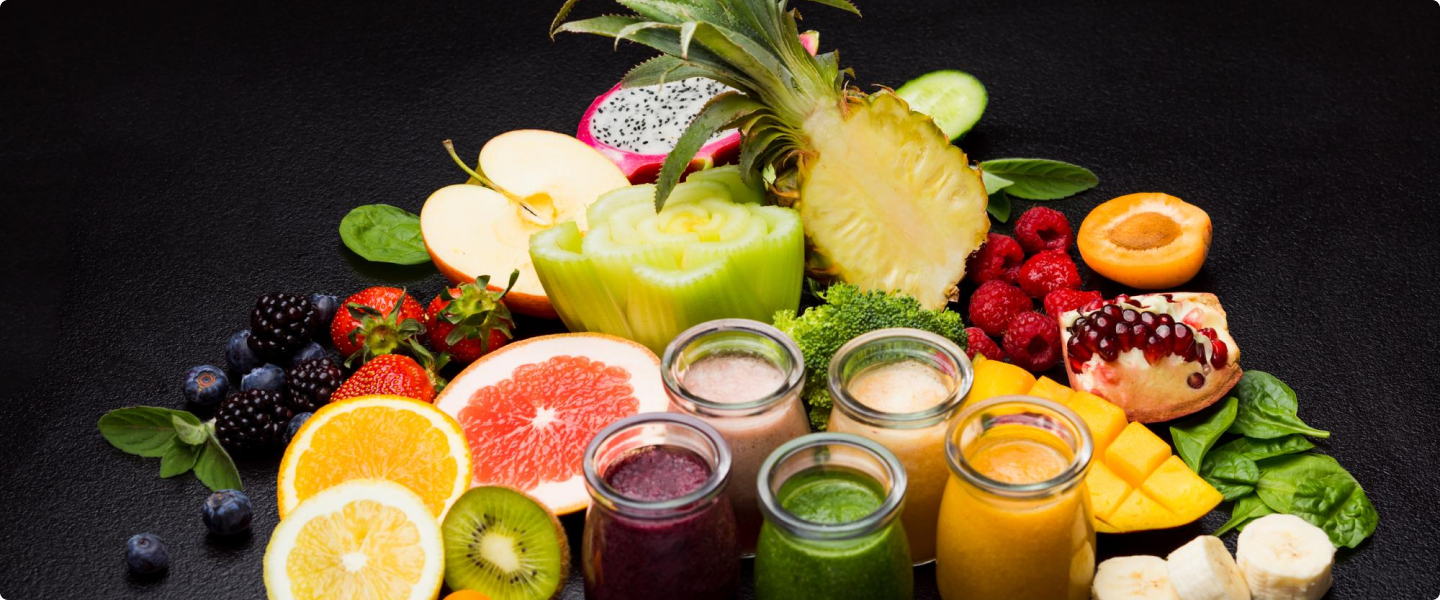
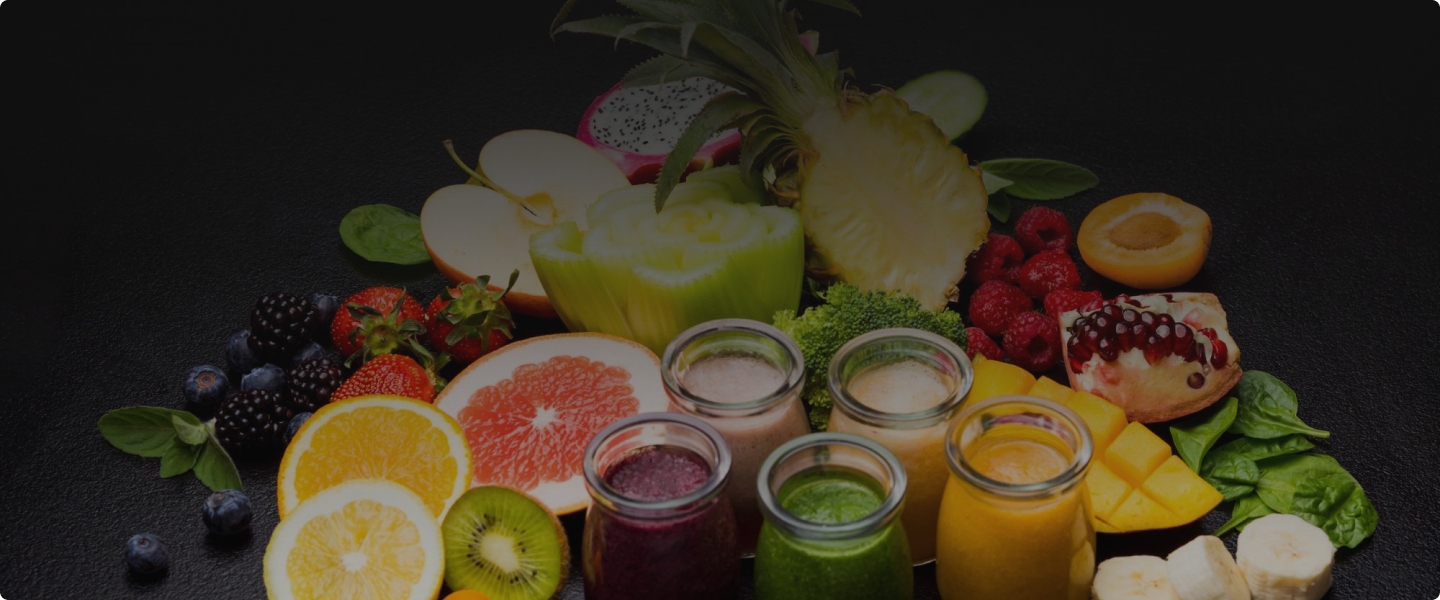
carousel fix

diff --git a/index.html b/index.html
@@ -59,8 +59,8 @@
                 
                 <nav class="bg-white border-gray-200 lg:hidden md:mt-12">
                     <div class="md:max-w-[760px] flex flex-wrap items-center justify-between mx-auto p-4">
-                    <a href="#" class="flex items-center">
-                        <img src="./images/logo.png" class="h-8 mr-3" alt="Flowbite Logo" />
+                    <a href="#" class="flex items-center gap-2">
+                        <img src="./images/logo.png" class="h-8" alt="Flowbite Logo" />
                         <span class="self-center text-2xl font-semibold whitespace-nowrap dark:text-black">Fruit Burst</span>
                     </a>
                     <button data-collapse-toggle="navbar-default" type="button" class="inline-flex items-center p-2 w-10 h-10 justify-center text-sm text-black rounded-lg lg:hidden hover:bg-gray-100 focus:outline-none focus:ring-2 focus:ring-gray-200 dark:text-black dark:hover:bg-gray-300 dark:focus:ring-gray-600" aria-controls="navbar-default" aria-expanded="false">
@@ -100,62 +100,58 @@
   
 
 
-                
-                <div class="carousel flex lg:max-w-[1440px] xl:max-w-[1280px] md:max-w-[760px] lg:mx-auto md:mx-auto mx-3 items-center relative md:mt-14 mt-7">
 
-                    <div id="slide1" class="carousel-item relative w-full bg-gradient-to-b from-[#121212b3] to-[#12121280] rounded-lg">
-                        <img src="./images/banner1.png" class="w-full mix-blend-overlay" />
-                        <div class="absolute flex justify-between transform -translate-y-1/2 left-5 right-5 top-1/2">
-                        <a href="#slide4" class="md:hidden w-6 h-6 rounded-full text-white bg-black border-none hover:bg-white/40 hover:text-black flex justify-center">❮</a> 
-                        <a href="#slide2" class="md:hidden w-6 h-6 rounded-full text-white bg-black border-none hover:bg-white/40 hover:text-black flex justify-center">❯</a>
+              <div id="controls-carousel" class="relative w-full lg:max-w-[1440px] md:max-w-[910px] max-w-[350px] mx-auto" data-carousel="static">
+                <!-- Carousel wrapper -->
+                <div class="relative h-56 overflow-hidden rounded-lg lg:h-screen md:h-[430px] lg:mt-0">
 
-                        <a href="#slide4" class="md:flex hidden btn btn-circle text-white bg-black border-none hover:bg-white/40 hover:text-black">❮</a> 
-                        <a href="#slide2" class="md:flex hidden btn btn-circle text-white bg-black border-none hover:bg-white/40 hover:text-black">❯</a>    
-                        </div>
-                    </div> 
-                    <div id="slide2" class="carousel-item relative w-full bg-gradient-to-b from-[#121212b3] to-[#12121280] rounded-lg">
-                        <img src="./images/banner2.png" class="w-full mix-blend-overlay" />
-                        <div class="absolute flex justify-between transform -translate-y-1/2 left-5 right-5 top-1/2">
-                        <a href="#slide1" class="md:hidden w-6 h-6 rounded-full text-white bg-black border-none hover:bg-white/40 hover:text-black flex justify-center">❮</a> 
-                        <a href="#slide3" class="md:hidden w-6 h-6 rounded-full text-white bg-black border-none hover:bg-white/40 hover:text-black flex justify-center">❯</a>
+                    <div class="hidden duration-700 ease-in-out bg-gradient-to-b" data-carousel-item>
+                        <img src="./images/banner1.png" class="absolute block w-full -translate-x-1/2 -translate-y-1/2 top-1/2 left-1/2" alt="...">
+                    </div>
 
-                        <a href="#slide1" class="md:flex hidden btn btn-circle text-white bg-black border-none hover:bg-white/40 hover:text-black">❮</a> 
-                        <a href="#slide3" class="md:flex hidden btn btn-circle text-white bg-black border-none hover:bg-white/40 hover:text-black">❯</a> 
-                        </div>
-                    </div> 
-                    <div id="slide3" class="carousel-item relative w-full bg-gradient-to-b from-[#121212b3] to-[#12121280] rounded-lg">
-                        <img src="./images/banner3.png" class="w-full mix-blend-overlay" />
-                        <div class="absolute flex justify-between transform -translate-y-1/2 left-5 right-5 top-1/2">
-                        <a href="#slide2" class="md:hidden w-6 h-6 rounded-full text-white bg-black border-none hover:bg-white/40 hover:text-black flex justify-center">❮</a> 
-                        <a href="#slide4" class="md:hidden w-6 h-6 rounded-full text-white bg-black border-none hover:bg-white/40 hover:text-black flex justify-center">❯</a>
+                    <div class="hidden duration-700 ease-in-out" data-carousel-item="active">
+                        <img src="./images/banner2.png" class="absolute block w-full -translate-x-1/2 -translate-y-1/2 top-1/2 left-1/2" alt="...">
+                    </div>
 
-                        <a href="#slide2" class="md:flex hidden btn btn-circle text-white bg-black border-none hover:bg-white/40 hover:text-black">❮</a> 
-                        <a href="#slide4" class="md:flex hidden btn btn-circle text-white bg-black border-none hover:bg-white/40 hover:text-black">❯</a> 
-                        </div>
-                    </div> 
-                    <div id="slide4" class="carousel-item relative w-full bg-gradient-to-b from-[#121212b3] to-[#12121280] rounded-lg">
-                        <img src="./images/banner4.png" class="w-full mix-blend-overlay" />
-                        <div class="absolute flex justify-between transform -translate-y-1/2 left-5 right-5 top-1/2">
-                        <a href="#slide3" class="md:hidden w-6 h-6 rounded-full text-white bg-black border-none hover:bg-white/40 hover:text-black flex justify-center">❮</a> 
-                        <a href="#slide1" class="md:hidden w-6 h-6 rounded-full text-white bg-black border-none hover:bg-white/40 hover:text-black flex justify-center">❯</a>
+                    <div class="hidden duration-700 ease-in-out" data-carousel-item>
+                        <img src="./images/banner3.png" class="absolute block w-full -translate-x-1/2 -translate-y-1/2 top-1/2 left-1/2" alt="...">
+                    </div>
 
-                        <a href="#slide3" class="md:flex hidden btn btn-circle text-white bg-black border-none hover:bg-white/40 hover:text-black">❮</a> 
-                        <a href="#slide1" class="md:flex hidden btn btn-circle text-white bg-black border-none hover:bg-white/40 hover:text-black">❯</a>
-                        </div>
+                    <div class="hidden duration-700 ease-in-out" data-carousel-item>
+                        <img src="./images/banner4.png" class="absolute block w-full -translate-x-1/2 -translate-y-1/2 top-1/2 left-1/2" alt="...">
                     </div>
                 </div>
+                <!-- Slider controls -->
+                <button type="button" class="absolute top-0 left-0 z-30 flex items-center justify-center h-full px-4 cursor-pointer group focus:outline-none" data-carousel-prev>
+                    <span class="inline-flex items-center justify-center w-10 h-10 rounded-full bg-white/30 dark:bg-gray-800/30 group-hover:bg-white/50 dark:group-hover:bg-gray-800/60 group-focus:ring-4 group-focus:ring-white dark:group-focus:ring-gray-800/70 group-focus:outline-none">
+                        <svg class="w-4 h-4 text-white dark:text-gray-800" aria-hidden="true" xmlns="http://www.w3.org/2000/svg" fill="none" viewBox="0 0 6 10">
+                            <path stroke="currentColor" stroke-linecap="round" stroke-linejoin="round" stroke-width="2" d="M5 1 1 5l4 4"/>
+                        </svg>
+                        <span class="sr-only">Previous</span>
+                    </span>
+                </button>
+                <button type="button" class="absolute top-0 right-0 z-30 flex items-center justify-center h-full px-4 cursor-pointer group focus:outline-none" data-carousel-next>
+                    <span class="inline-flex items-center justify-center w-10 h-10 rounded-full bg-white/30 dark:bg-gray-800/30 group-hover:bg-white/50 dark:group-hover:bg-gray-800/60 group-focus:ring-4 group-focus:ring-white dark:group-focus:ring-gray-800/70 group-focus:outline-none">
+                        <svg class="w-4 h-4 text-white dark:text-gray-800" aria-hidden="true" xmlns="http://www.w3.org/2000/svg" fill="none" viewBox="0 0 6 10">
+                            <path stroke="currentColor" stroke-linecap="round" stroke-linejoin="round" stroke-width="2" d="m1 9 4-4-4-4"/>
+                        </svg>
+                        <span class="sr-only">Next</span>
+                    </span>
+                </button>
+              </div>
+
 
                 
                 
 
-                <div class="lg:max-w-[1196px] xl:max-w-[1050px] md:max-w-[580px] max-w-[230px] mx-auto flex-col items-center text-center lg:-mt-[488px] md:-mt-[260px] -mt-[138px] relative z-50">
-                    <h1 class="text-white text-2xl lg:text-7xl md:text-4xl font-extrabold lg:mb-6 md:mb-3 mb-1">Exotic tastes at your <br>doorstep</h1>
+                <div class="lg:max-w-[1196px] xl:max-w-[1050px] md:max-w-[680px] max-w-[230px] mx-auto flex-col items-center text-center lg:-mt-[650px] md:-mt-[360px] -mt-[178px] relative z-50">
+                    <h1 class="text-white text-2xl lg:text-7xl md:text-5xl font-extrabold lg:mb-8 md:mb-3 mb-1">Exotic tastes at your <br>doorstep</h1>
 
-                    <p class="text-white text-xs font-medium lg:text-xl md:text-sm lg:mb-8 md:mb-4 mb-2">We supply highly quality organic products</p>
+                    <p class="text-white text-xs font-medium lg:text-xl md:text-lg lg:mb-10 md:mb-6 mb-2">We supply highly quality organic products</p>
 
-                    <a href="#"><button class="lg:px-7 lg:py-4 md:px-6 md:py-3 mx-auto bg-[#F85569] hover:bg-[#F85578] border-none text-white lg:mb-20 md:mb-7 lg:text-lg md:text-sm px-4 py-2 text-base md:font-extrabold font-bold rounded-md hover:scale-105 duration-200">Shop now</button></a>
+                    <a href="#"><button class="lg:px-7 lg:py-4 md:px-6 md:py-3 mx-auto bg-[#F85569] hover:bg-[#F85578] border-none text-white lg:mb-24 md:mb-10 lg:text-lg md:text-sm px-4 py-2 text-base md:font-extrabold font-bold rounded-md hover:scale-105 duration-200">Shop now</button></a>
 
-                    <div class="bg-white lg:w-[1196px] lg:py-9 md:p-5 md:px-8 mx-auto rounded-lg shadow-lg md:flex hidden">
+                    <div class="bg-white lg:py-9 md:p-5 md:px-8 mx-auto rounded-lg shadow-lg md:flex hidden">
                         
                         <table align="center">
                             <tr>
@@ -749,7 +745,7 @@
                     </div>
 
 
-                    <div class="flex list-none md:space-x-10 space-x-5 md:mb-36 mb-9">
+                    <div class="flex list-none md:space-x-10 space-x-4 md:mb-36 mb-9">
                         <li class="hover:scale-105 duration-200"><a href="https://www.twitter.com"><svg class="md:w-10 md:h-10 w-8 h-8" viewBox="0 0 40 40" fill="none" xmlns="http://www.w3.org/2000/svg">
                             <g clip-path="url(#clip0_12_5266)">
                               <path d="M40 7.5975C38.5125 8.25 36.9275 8.6825 35.275 8.8925C36.975 7.8775 38.2725 6.2825 38.8825 4.36C37.2975 5.305 35.5475 5.9725 33.6825 6.345C32.1775 4.7425 30.0325 3.75 27.6925 3.75C23.1525 3.75 19.4975 7.435 19.4975 11.9525C19.4975 12.6025 19.5525 13.2275 19.6875 13.8225C12.87 13.49 6.8375 10.2225 2.785 5.245C2.0775 6.4725 1.6625 7.8775 1.6625 9.39C1.6625 12.23 3.125 14.7475 5.305 16.205C3.9875 16.18 2.695 15.7975 1.6 15.195C1.6 15.22 1.6 15.2525 1.6 15.285C1.6 19.27 4.4425 22.58 8.17 23.3425C7.5025 23.525 6.775 23.6125 6.02 23.6125C5.495 23.6125 4.965 23.5825 4.4675 23.4725C5.53 26.72 8.545 29.1075 12.13 29.185C9.34 31.3675 5.7975 32.6825 1.9625 32.6825C1.29 32.6825 0.645 32.6525 0 32.57C3.6325 34.9125 7.9375 36.25 12.58 36.25C27.67 36.25 35.92 23.75 35.92 12.915C35.92 12.5525 35.9075 12.2025 35.89 11.855C37.5175 10.7 38.885 9.2575 40 7.5975Z" fill="white"/>
